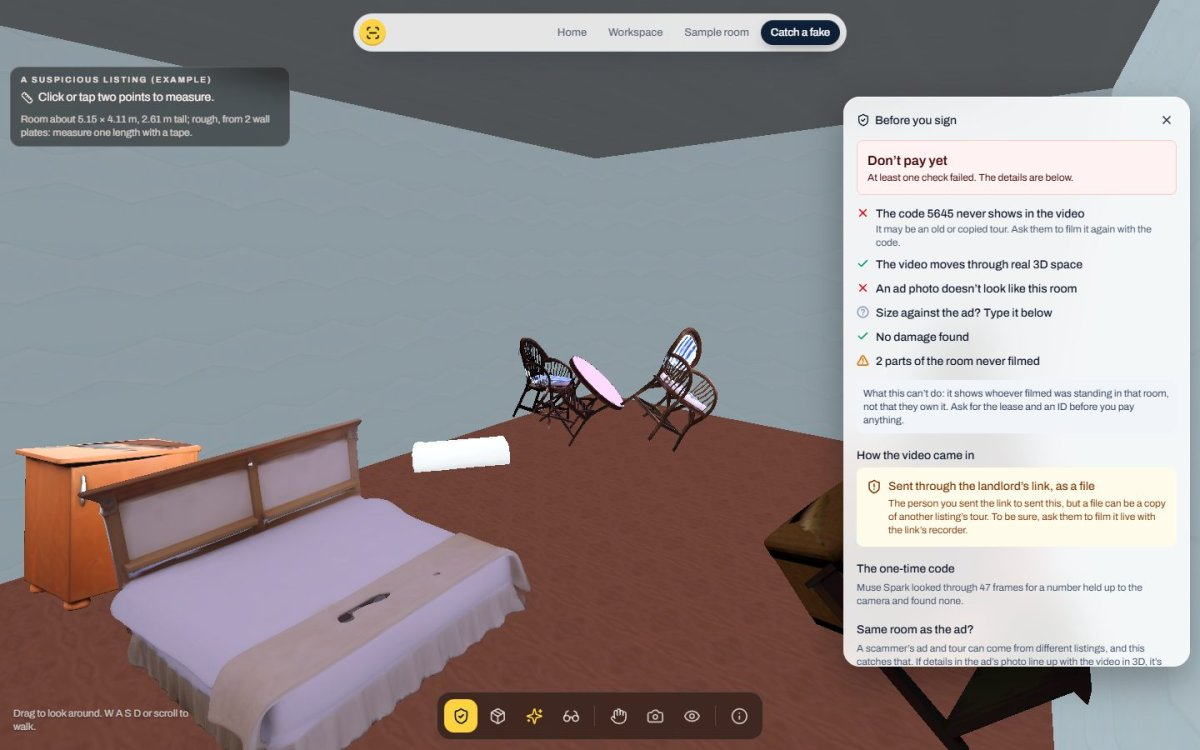
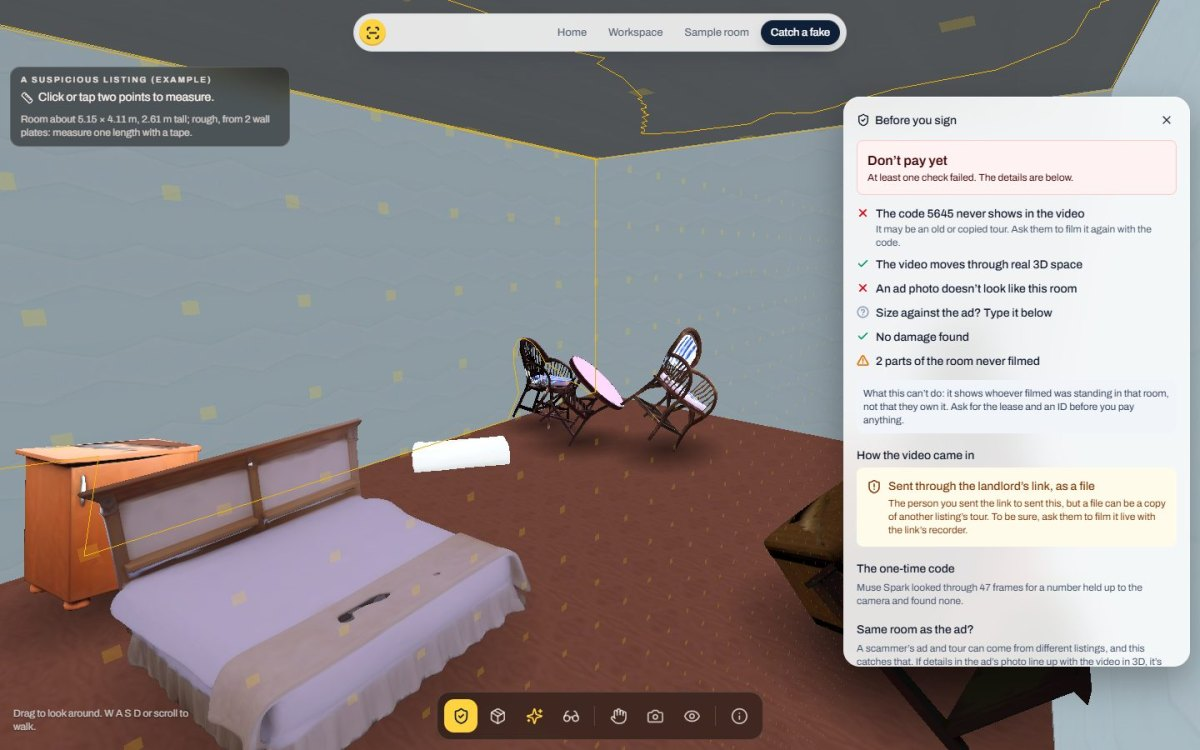
README UPDATED

diff --git a/frontend/src/components/walk/rebuilt.ts b/frontend/src/components/walk/rebuilt.ts
@@ -37,6 +37,35 @@ export async function fetchModel(folder: string, file: string, light = false): P
 // What the video never saw, when it's shown: tinted towards this colour, half and half
 const NOT_FILMED = new THREE.Color('#a855f7')
 
+let shadowTexture: THREE.Texture | null = null
+
+/** A soft dark patch on the floor under a thing's footprint (its measured size and turn), a few millimetres up so it
+ *  never flickers into the floor. Clicks and measuring go straight through it. */
+function contactShadow(centre: number[], size: number[], yawDegrees: number) {
+  if (!shadowTexture) {
+    const canvas = document.createElement('canvas')
+    canvas.width = canvas.height = 128
+    const paint = canvas.getContext('2d')!
+    const gradient = paint.createRadialGradient(64, 64, 2, 64, 64, 64)
+    gradient.addColorStop(0, 'rgba(0, 0, 0, 0.6)')
+    gradient.addColorStop(0.5, 'rgba(0, 0, 0, 0.32)')
+    gradient.addColorStop(1, 'rgba(0, 0, 0, 0)')
+    paint.fillStyle = gradient
+    paint.fillRect(0, 0, 128, 128)
+    shadowTexture = new THREE.CanvasTexture(canvas)
+  }
+  const shadow = new THREE.Mesh(new THREE.PlaneGeometry(1, 1),
+    new THREE.MeshBasicMaterial({ map: shadowTexture, transparent: true, depthWrite: false, opacity: 0.85 }))
+  shadow.rotation.order = 'YXZ'
+  shadow.rotation.set(-Math.PI / 2, -THREE.MathUtils.degToRad(yawDegrees), 0)
+  shadow.scale.set(Math.abs(size[0]) * 1.3 + 0.12, Math.abs(size[2]) * 1.3 + 0.12, 1)
+  shadow.position.set(centre[0], 0.005, centre[2])
+  shadow.renderOrder = 1
+  shadow.name = 'contact shadow'
+  shadow.raycast = () => {}
+  return shadow
+}
+
 export type Rebuilt = {
   group: THREE.Group
   movable: Movable
@@ -85,6 +114,11 @@ export async function loadRebuilt(
     // Unlit like the walls: the colours are the photo's own light and shade (both sides, for any open seam)
     const mesh = new THREE.Mesh(geometry, new THREE.MeshBasicMaterial({ vertexColors: true, side: THREE.DoubleSide }))
     mesh.name = thing.name
+    // A thing standing on the floor gets a soft shadow under it (it moves with it), or thin legs read as floating
+    geometry.computeBoundingBox()
+    if (!thing.fixed && geometry.boundingBox && geometry.boundingBox.min.y < 0.06) {
+      mesh.add(contactShadow(thing.centre, thing.size, thing.yawDegrees))
+    }
     group.add(mesh)
     ;(thing.fixed ? fixed : pieces).push({ ...thing, object: mesh })
   }))
